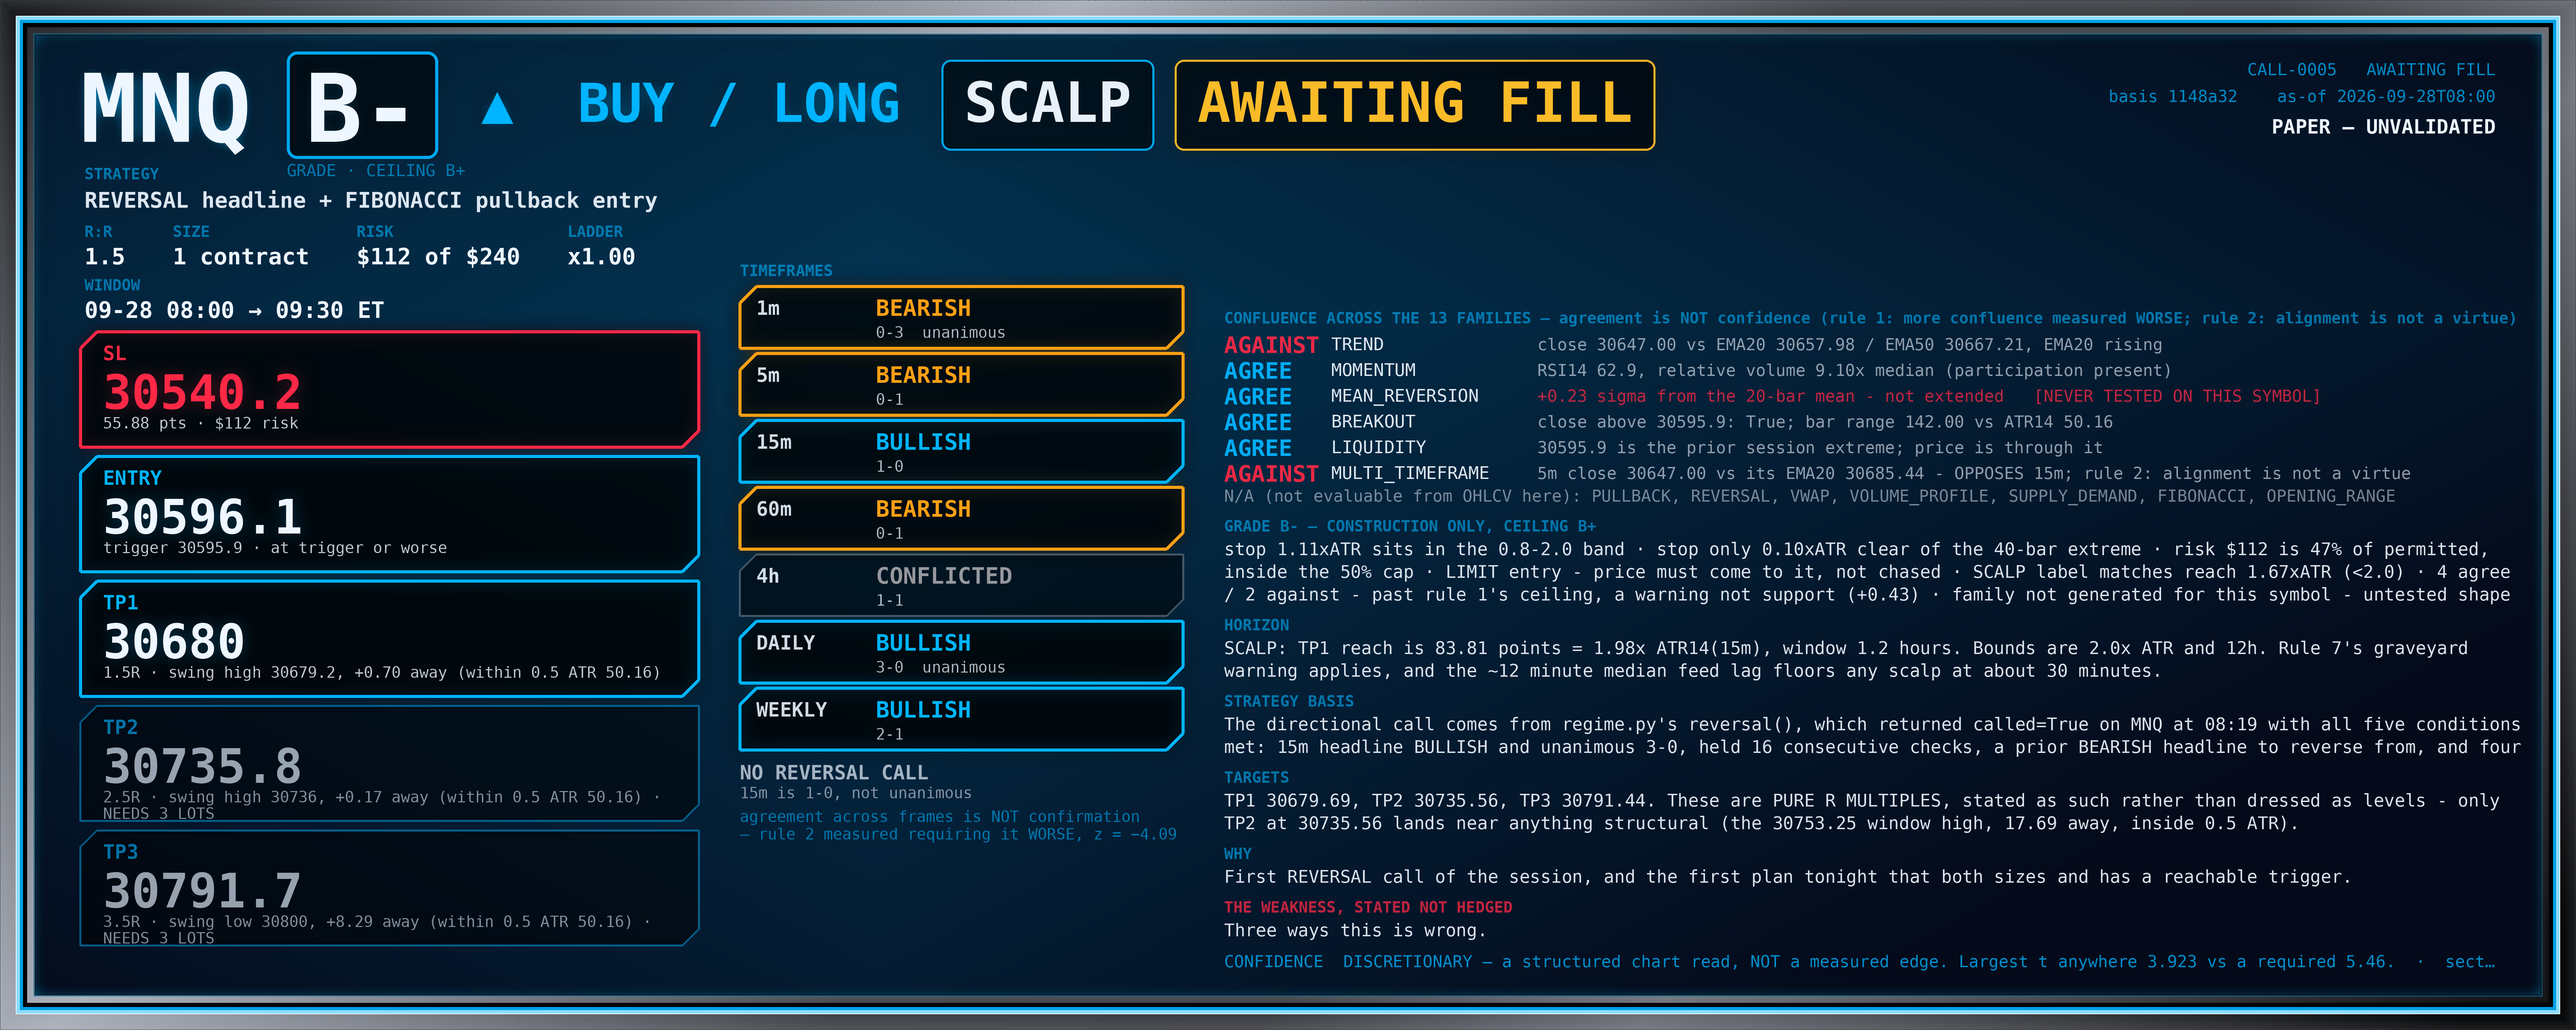
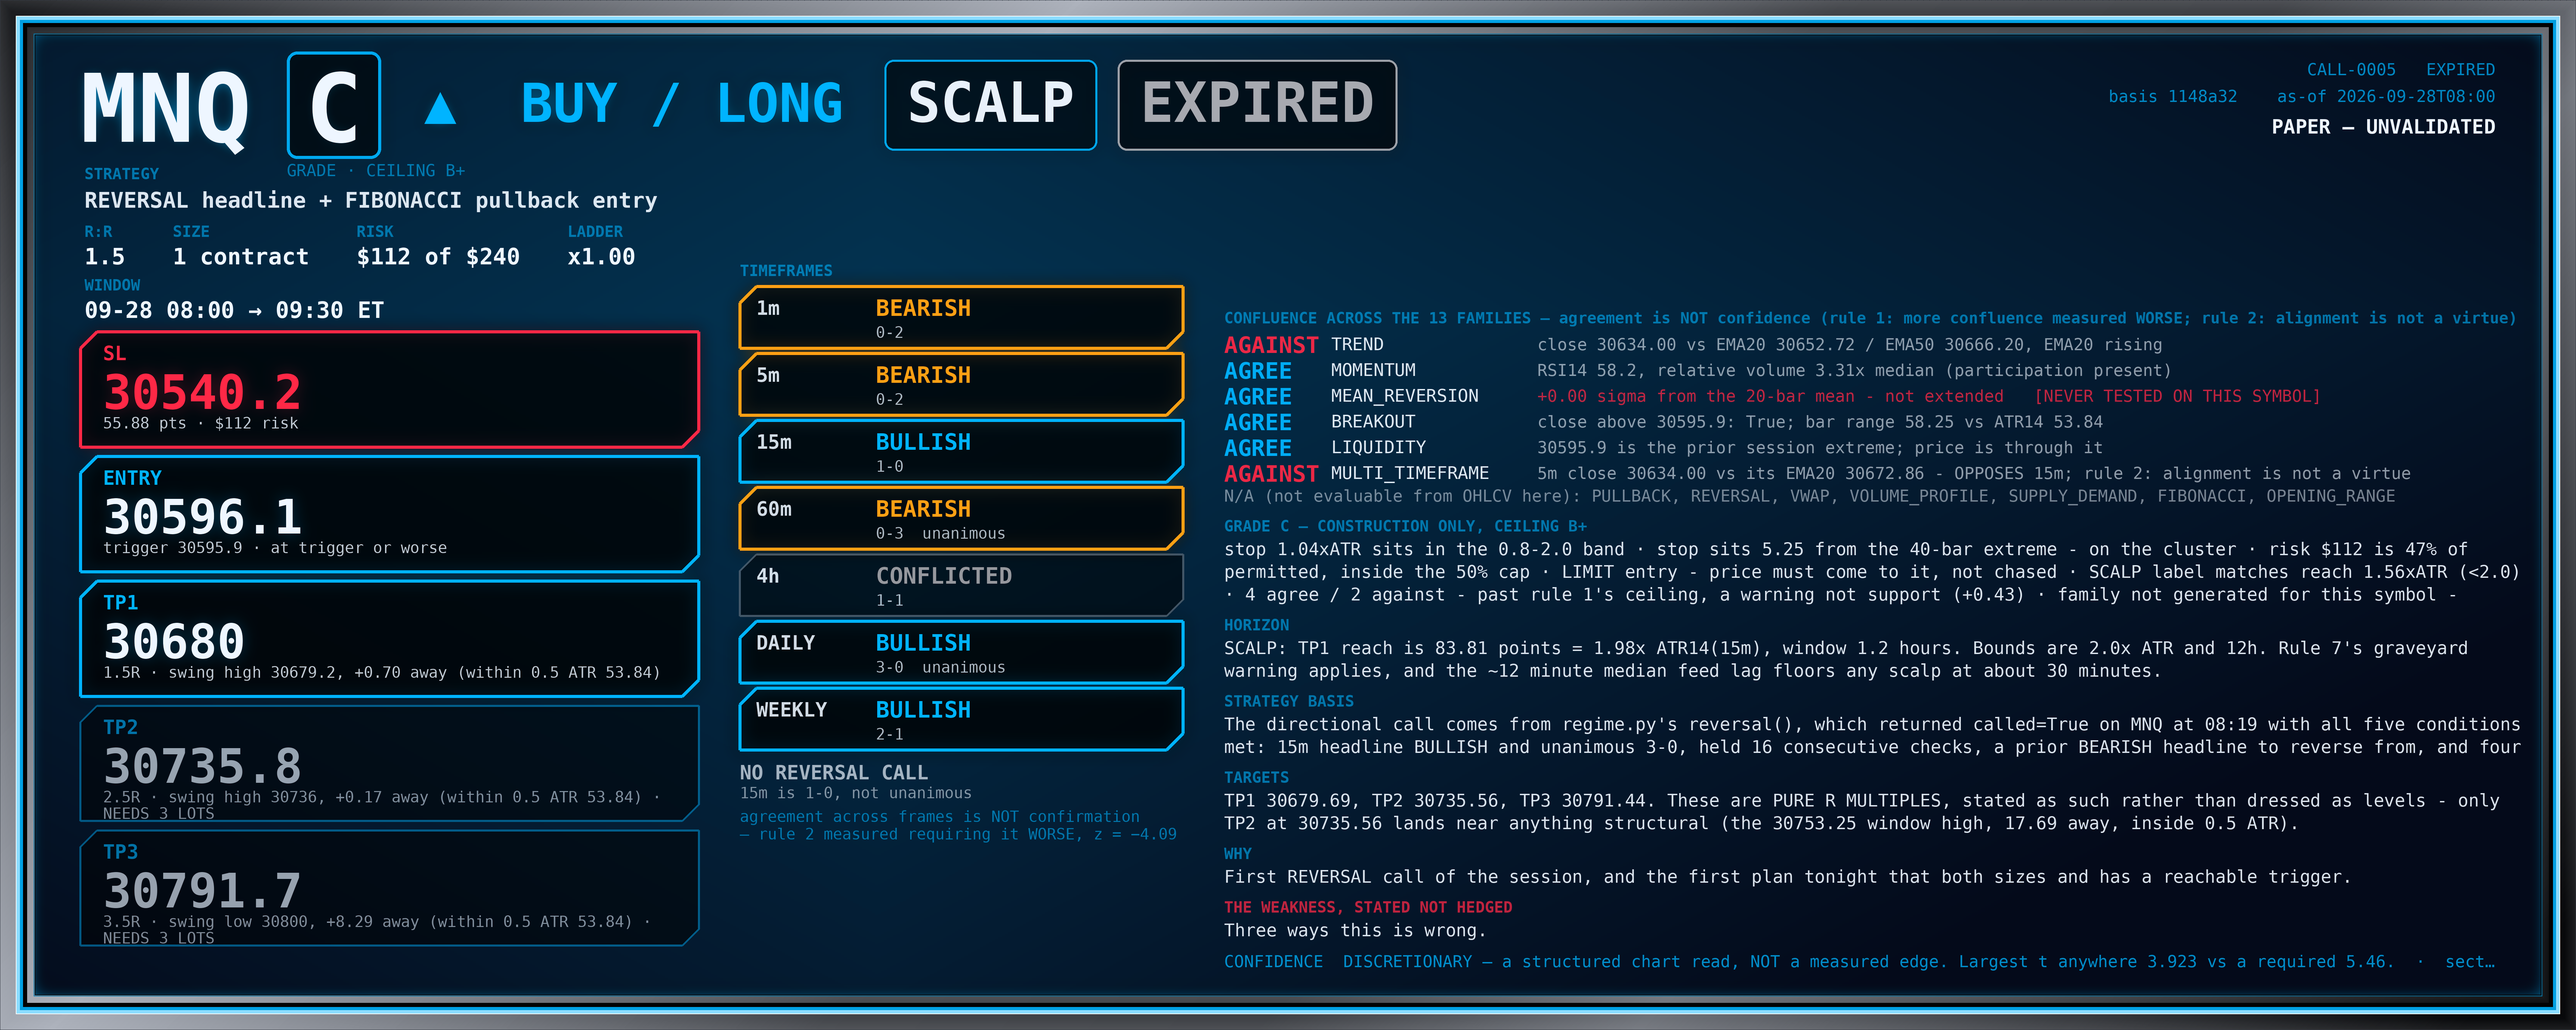
CALL desk: 10:00 - CALL-0005 EXPIRED UNTRIGGERED; price traded 3.63 points through the limit at 09:46, one minute into the bar that closed the window
- resolve.py retired CALL-0005 on the 09:45 bar's arrival: EXPIRED_UNTRIGGERED, no fill, 0.0R
- the 09:30 bar's low settled at 30601.50, 5.62 above the limit; the 09:45 bar low was 30592.25
- N176's fill-by-revision scenario resolved NEGATIVE and is recorded as an over-read
- counterfactual stated as a counterfactual: a one-bar-longer window would be OPEN and
  UNRESOLVED at +0.68R, not a win; lengthening the window now would be a post-hoc fit (N8)
- both ATRs expanded: MGC 10.97, MNQ 53.84; the 50% cap now binds near 1.1x ATR
- no new call: MGC has run 2.0x ATR in 30 minutes and is not to be chased; MNQ is opposed
  on every adjacent frame pair
- measured record unchanged: 0 countable closed trades, CALL-0002 excluded

Claude-Session: https://claude.ai/code/session_01EE6PFk7fGa2tM4KP6dpfWD

diff --git a/workspace/paper/CALL/NOTES.md b/workspace/paper/CALL/NOTES.md
@@ -6284,3 +6284,103 @@ No new call. Neither reversal fires, MGC's is structurally blocked, and there is
 on a midpoint reading with a conflicted fast frame. **Ledger: 0 open, 1 closed (excluded), 2 pending.
 `state.json` equity $50,156.56, drawdown $0.00. Measured: 0 countable closed trades, equity $50,000.00, drawdown
 $0.00, full $2,800 to the absorbing state.**
+
+## N179 — 10:00: CALL-0005 EXPIRED UNTRIGGERED, and price traded THROUGH the limit one minute later
+
+`resolve.py` at 14:00:13Z, on the arrival of the `09:45` 15m bar:
+
+    EXPIRED CALL-0005 MNQ LONG - never triggered (window closed 2026-09-28T09:30:00-04:00)
+    open 0  closed 1  equity $50,156.56  drawdown $0.00
+
+The resolver wrote it, as required. **Outcome: `EXPIRED_UNTRIGGERED`, NO FILL, 0.0R.** That is the fourth
+consecutive non-fill and the third by the mechanism N149/N151 named.
+
+But this one carries a measurement the other three did not. The bar that closed the window is the bar that
+went there:
+
+    limit                       30595.88
+    09:30 15m bar low (final)   30601.50   -> 5.62 ABOVE the limit; never touched
+    09:45 15m bar low           30592.25   -> 3.63 THROUGH the limit
+    1m bar that did it          09:46      l 30592.25
+
+`check_triggers` scans `bars = [b for b in all_bars if b["ts"] <= expiry]`, so the last bar eligible to fill
+was the `09:30` bar. Price reached the level in the **first minute of the next bar**. The plan was wrong about
+the window by one bar and wrong about the level by less than four points on an instrument whose 15m ATR is
+53.84.
+
+**The counterfactual, stated as a counterfactual and not as a result.** Had the window held one bar longer:
+entry would be `min(30595.88, open 30612.25)` = 30595.88; stop 30540.00 untouched (bar low 30592.25, 52.25
+points of room left); TP1 30679.69 untouched (bar high 30650.50). At the current 30634.00 the position would be
+**OPEN and UNRESOLVED at +38.12 points, +$76.24, +0.68R** — not a win. There is no closed trade in that branch
+either, and I am not counting one.
+
+**What I am NOT doing with this.** The 90-minute window on CALL-0005 was *chosen*, never measured. Lengthening
+it now, having watched price arrive 61 seconds late, is the textbook post-hoc parameter fit — the same act N8
+forbids on entry price, applied to expiry instead. If window length is ever to change it must be
+pre-registered against a measured distribution of time-from-registration-to-limit-touch across many plans,
+with the non-touching plans included in the denominator, not against this single instance. Recording the
+observation is the whole of the permitted response.
+
+## N180 — the fill-by-revision scenario resolved NEGATIVE, and the revision that did happen went the wrong way
+
+N176 pre-committed to saying explicitly if CALL-0005 were awarded its entry by a data restatement rather than
+by the market trading there. **It was not.** The `09:30` bar's low revision history, in fetch order:
+
+    30617.25  ->  30617.25  ->  30601.50  ->  30601.50   (settled)
+
+One downward revision of 15.75 points, then settled 5.62 short. Inside N70's measured MNQ 15m low-revision
+range (max 27.25) but it stopped before the level. So the scenario I flagged as live at 09:54 closed out
+against itself, and the honest reading is that N177's assessment — window shrinking, nothing moving — was the
+right one and N176's alarm was the over-read. The distinction still mattered to state in advance: had it
+filled at 30601.50-going-to-30595.88 the entry would have been manufactured by a restatement, and the journal
+would have had to say so.
+
+Worth keeping: **the 09:30 bar was the largest-volume 15m bar of the session on both symbols** (MNQ v 154,727
+against ~19,000 on the preceding bars; MGC v 13,412 against ~4,000) and it is also the bar that revised most.
+Volume and revision magnitude moving together is consistent with the vendor back-filling a heavy bar, and is a
+better candidate explanation for the 18:00 session-open bar's outlier revisions (N70/N89) than "session open"
+as such. Not tested; noted as a hypothesis with n=1 session.
+
+## N181 — 10:00 full check: both ATRs expanded again and the size cap now binds near 1.1x ATR
+
+    MGC  15m ATR14  10.97  (was 9.97 at 09:54, 8.52 overnight)   1.0x = $109.70 = 45.7% of $240
+    MNQ  15m ATR14  53.84  (was 44.25 at 09:54, 31.10 overnight) 1.0x = $107.68 = 44.9% of $240
+
+The 50% self-imposed cap ($120 while DISCRETIONARY and UNVALIDATED) now binds at **1.09x ATR on MGC and 1.11x
+on MNQ** — the tightest headroom of the session, down from 1.20x/1.36x six minutes ago. Rule 4 forbids stops
+tighter than ~0.5 ATR, so the usable band on a 1-contract position is now roughly 0.5x-1.1x ATR and closing.
+If ATR expands another 10% on either symbol the cap and the rule-4 floor start to squeeze a 1-contract plan
+from both sides, and the correct response is no plan, not a thinner stop.
+
+Directional read, 15m frame, all endpoints quoted:
+
+    MGC  trend MIXED   4190.40 > EMA20 4186.43, EMA20 FALLING
+         structure BEAR swing highs 4203.80->4187.80 lower, lows 4175.00->4168.30 lower
+         location BEAR  34.1% of [4168.30, 4233.20]
+         1m BULL 3-0 unanimous | 5m BULL 2-1 | 15m BEAR 0-2 | 60m BEAR 0-3 unanimous | 4h BEAR 0-2
+         DAILY / WEEKLY NOT ELIGIBLE (roll audit)
+         no reversal call - 15m is 0-2 not unanimous; no prior directional headline (N166, structural)
+
+    MNQ  trend MIXED   30634.00 < EMA20 30651.72, EMA20 rising
+         structure BULL swing highs 30753.75->30759.25 higher, lows 30547.75->30610.50 higher
+         location MIXED 44.1% of [30535.00, 30759.25]
+         1m BEAR 0-2 | 5m BEAR 0-2 | 15m BULL 1-0 | 60m BEAR 0-3 unanimous | 4h CONFLICTED 1-1
+         DAILY BULL 3-0 unanimous | WEEKLY BULL 2-1
+         no reversal call - 15m is 1-0 not unanimous; held only 1 check, needs 2
+
+**No new call, and MGC is the one I have to say no to out loud.** MGC has run 4168.30 -> 4190.40 in two 15m
+bars, +22.10 points, **2.0x ATR in 30 minutes**, with the 1m unanimous behind it. That is precisely the shape
+that invites a long, and it is precisely the extended move the owner's standing constraint forbids chasing:
+the 60m is BEARISH 0-3 unanimous against it, the 15m structure is still lower-highs-lower-lows, and there is
+no pre-committed continuation method to act on it — building one now, while watching the move, would be the
+same laundering of N8 refused four times already (N52, N151, and twice since). MNQ is internally opposed on
+every adjacent pair of frames and under rule 1 that is a reason not to trade.
+
+**Ledger, win rate and payoff together per rule 3.** `state.json` reads 1 closed trade, 1 win, 100% win rate,
++1.566R, equity $50,156.56, peak $50,156.56, drawdown $0.00. **That trade is CALL-0002 and it is EXCLUDED
+from measurement** (N155: filled 102.70 points from its specified entry because its `created_bar_ts` was
+future-dated and off the 15m grid). The desk's measured record is therefore unchanged: **0 countable closed
+trades, win rate undefined, payoff undefined, expectancy undefined at n = 0, measured equity $50,000.00,
+measured drawdown $0.00, the full $2,800 to the absorbing state.** Journal 23 entries, 4 resolved, 11 NO
+TRADE, 1 excluded. Live: **CALL-0001 only** (MNQ LONG, stop-entry 30998.50, expires on the 16:00 bar, now
+364.50 points adverse and DIRECTION WRONG by the tracker). CALL-0005 is retired.

diff --git a/workspace/paper/CALL/LEDGER.md b/workspace/paper/CALL/LEDGER.md
@@ -5,7 +5,7 @@ has a measured edge (largest *t* 3.923 against `free_t` 5.46), so this ledger is
 record of a *process*, not evidence of one. It is generated by `resolve.py`;
 do not hand-edit it.
 
-**Regenerated:** 2026-09-28T13:47:47+00:00 · **basis:** d958890
+**Regenerated:** 2026-09-28T14:00:13+00:00 · **basis:** a52e99c
 
 ## Account
 
@@ -46,7 +46,6 @@ hypothesis against 5.46 for a searched population).
 | id | symbol | side | trigger | stop pts | targets (R) | lots | expires |
 |---|---|---|---|---|---|---|---|
 | CALL-0001 | MNQ | LONG | 30998.5 | 60.0 | TP1 1.6R | 1 | 2026-09-28T16:00:00-04:00 |
-| CALL-0005 | MNQ | LONG | 30595.88 | 55.88 | TP1 1.5R | 1 | 2026-09-28T09:30:00-04:00 |
 
 ## Closed trades
 
